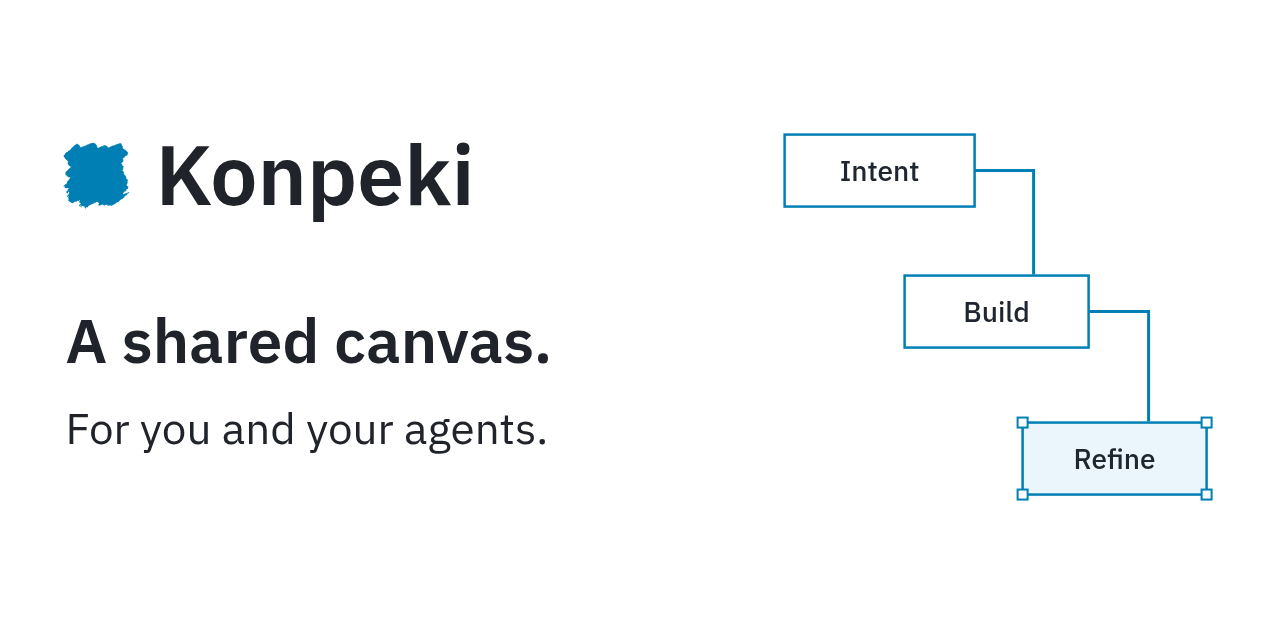
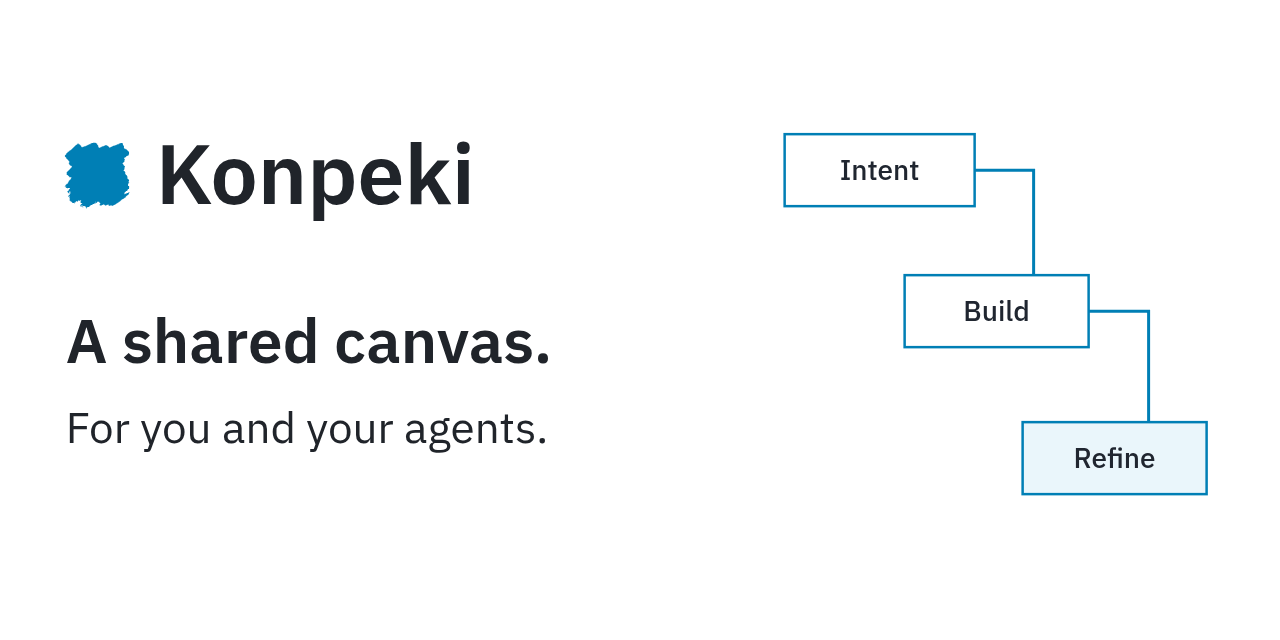
feat(brand): refresh GitHub social preview

diff --git a/slides/github-cover/author.ts b/slides/github-cover/author.ts
@@ -27,13 +27,12 @@ for(const [id,label,x,y,width] of [['intent','Intent',12,38,190],['build','Build
   elements.push({id:`${id}-shape`,kind:'rect',attributes:{x,y,width,height:72,rx:18,fill:id==='refine'?'#eaf6fb':'#ffffff',stroke:blue,'stroke-width':2.5}});
   elements.push({id:`${id}-label`,kind:'text',text:label,attributes:{x:x+width/2,y:y+46,'text-anchor':'middle','font-family':'theme:heading-font','font-size':28,'font-weight':500,fill:ink}});
 }
-for(const [i,x,y] of [[0,245,321],[1,429,321],[2,245,393],[3,429,393]])elements.push({id:`edit-handle-${i}`,kind:'rect',attributes:{x,y,width:10,height:10,fill:'#ffffff',stroke:blue,'stroke-width':2}});
 const components:CompositionComponent[]=[
   text('brand','Konpeki',150,120,480,110,84),
   {id:'brand-mark',kind:'image',slotIds:['brand-mark-content'],preferredRect:{x:64,y:143,width:66,height:66},customVisual:{format:'vector',viewBox:{x:0,y:0,width:128,height:128},description:'Konpeki blue brush mark',elements:[{id:'mark-silhouette',kind:'path',attributes:{d:outline,fill:blue}}]}},
   text('promise','A shared canvas.',64,302,680,90,62),
   text('audience','For you and your agents.',64,400,660,76,44,400),
-  {id:'workflow',kind:'diagram',slotIds:['workflow-content'],preferredRect:{x:772,y:116,width:444,height:412},appearance:{type:'flowchart',selection:'explicit',border:'none'},customVisual:{format:'vector',viewBox:{x:0,y:0,width:444,height:412},description:'Intent connects to Build, then Refine; selection handles on Refine express editable output.',elements}},
+  {id:'workflow',kind:'diagram',slotIds:['workflow-content'],preferredRect:{x:772,y:116,width:444,height:412},appearance:{type:'flowchart',selection:'explicit',border:'none'},customVisual:{format:'vector',viewBox:{x:0,y:0,width:444,height:412},description:'Intent connects to Build, then Refine; the highlighted final step expresses editable output.',elements}},
 ];
 const document:CompositionDocument={schema:compositionSchema,title:'Konpeki GitHub cover',authoringMode:'default',theme:{id:'plex',mode:'paper'},slides:[{
   id:'github-cover',name:'GitHub repository cover',canvas:{width:1280,height:640},innerPadding:{top:64,right:64,bottom:64,left:64},pageNumber:{style:'none',color:'muted'},

diff --git a/slides/github-cover/README.md b/slides/github-cover/README.md
@@ -10,8 +10,7 @@ Open for editing:
 mise exec -- pnpm konpeki preview slides/github-cover/composition.json
 ```
 
-Use **Export PNG** after editing. The selection handles around Refine are part
-of the authored illustration, not editor overlays.
+Use **Export PNG** after editing.
 
 `PROMPT.md` records the brief, assumptions and asset sources. `author.ts`
 reconstructs the initial composition with Node.js and ImageMagick; running it
@@ -20,5 +19,7 @@ overwrites the JSON, so do not run it over subsequent human edits.
 Verified: composition validation, TypeScript check and application build;
 the real canvas loaded all five components and IBM Plex Sans. Inspected the
 1280 × 640 PNG and a 640 × 320 review copy for alignment, clipping and legibility.
-Corrected the logo's vertical alignment after the first export. No GitHub
-repository settings have been changed.
+Corrected the logo's vertical alignment after the first export and removed
+authored selection handles that read as editor artifacts at social-card size.
+Uploading the PNG as the repository social preview remains a separate GitHub
+setting.

diff --git a/slides/github-cover/PROMPT.md b/slides/github-cover/PROMPT.md
@@ -7,8 +7,8 @@
 - Destination assumed: GitHub repository social preview, 1280 × 640.
 - Authoring mode: unspecified; resolved to default.
 - Reuse the existing blue mark, white canvas and IBM Plex Sans identity.
-- Lead with the product name and shared-canvas promise. A small editable
-  Intent → Build → Refine illustration represents the authoring workflow.
+- Lead with the product name and shared-canvas promise. A small
+  Intent → Build → Refine illustration represents the editable authoring workflow.
 - A generated layout concept informed placement only; the deliverable is
   authored as Konpeki text and editable vectors, not a flattened concept image.
 
